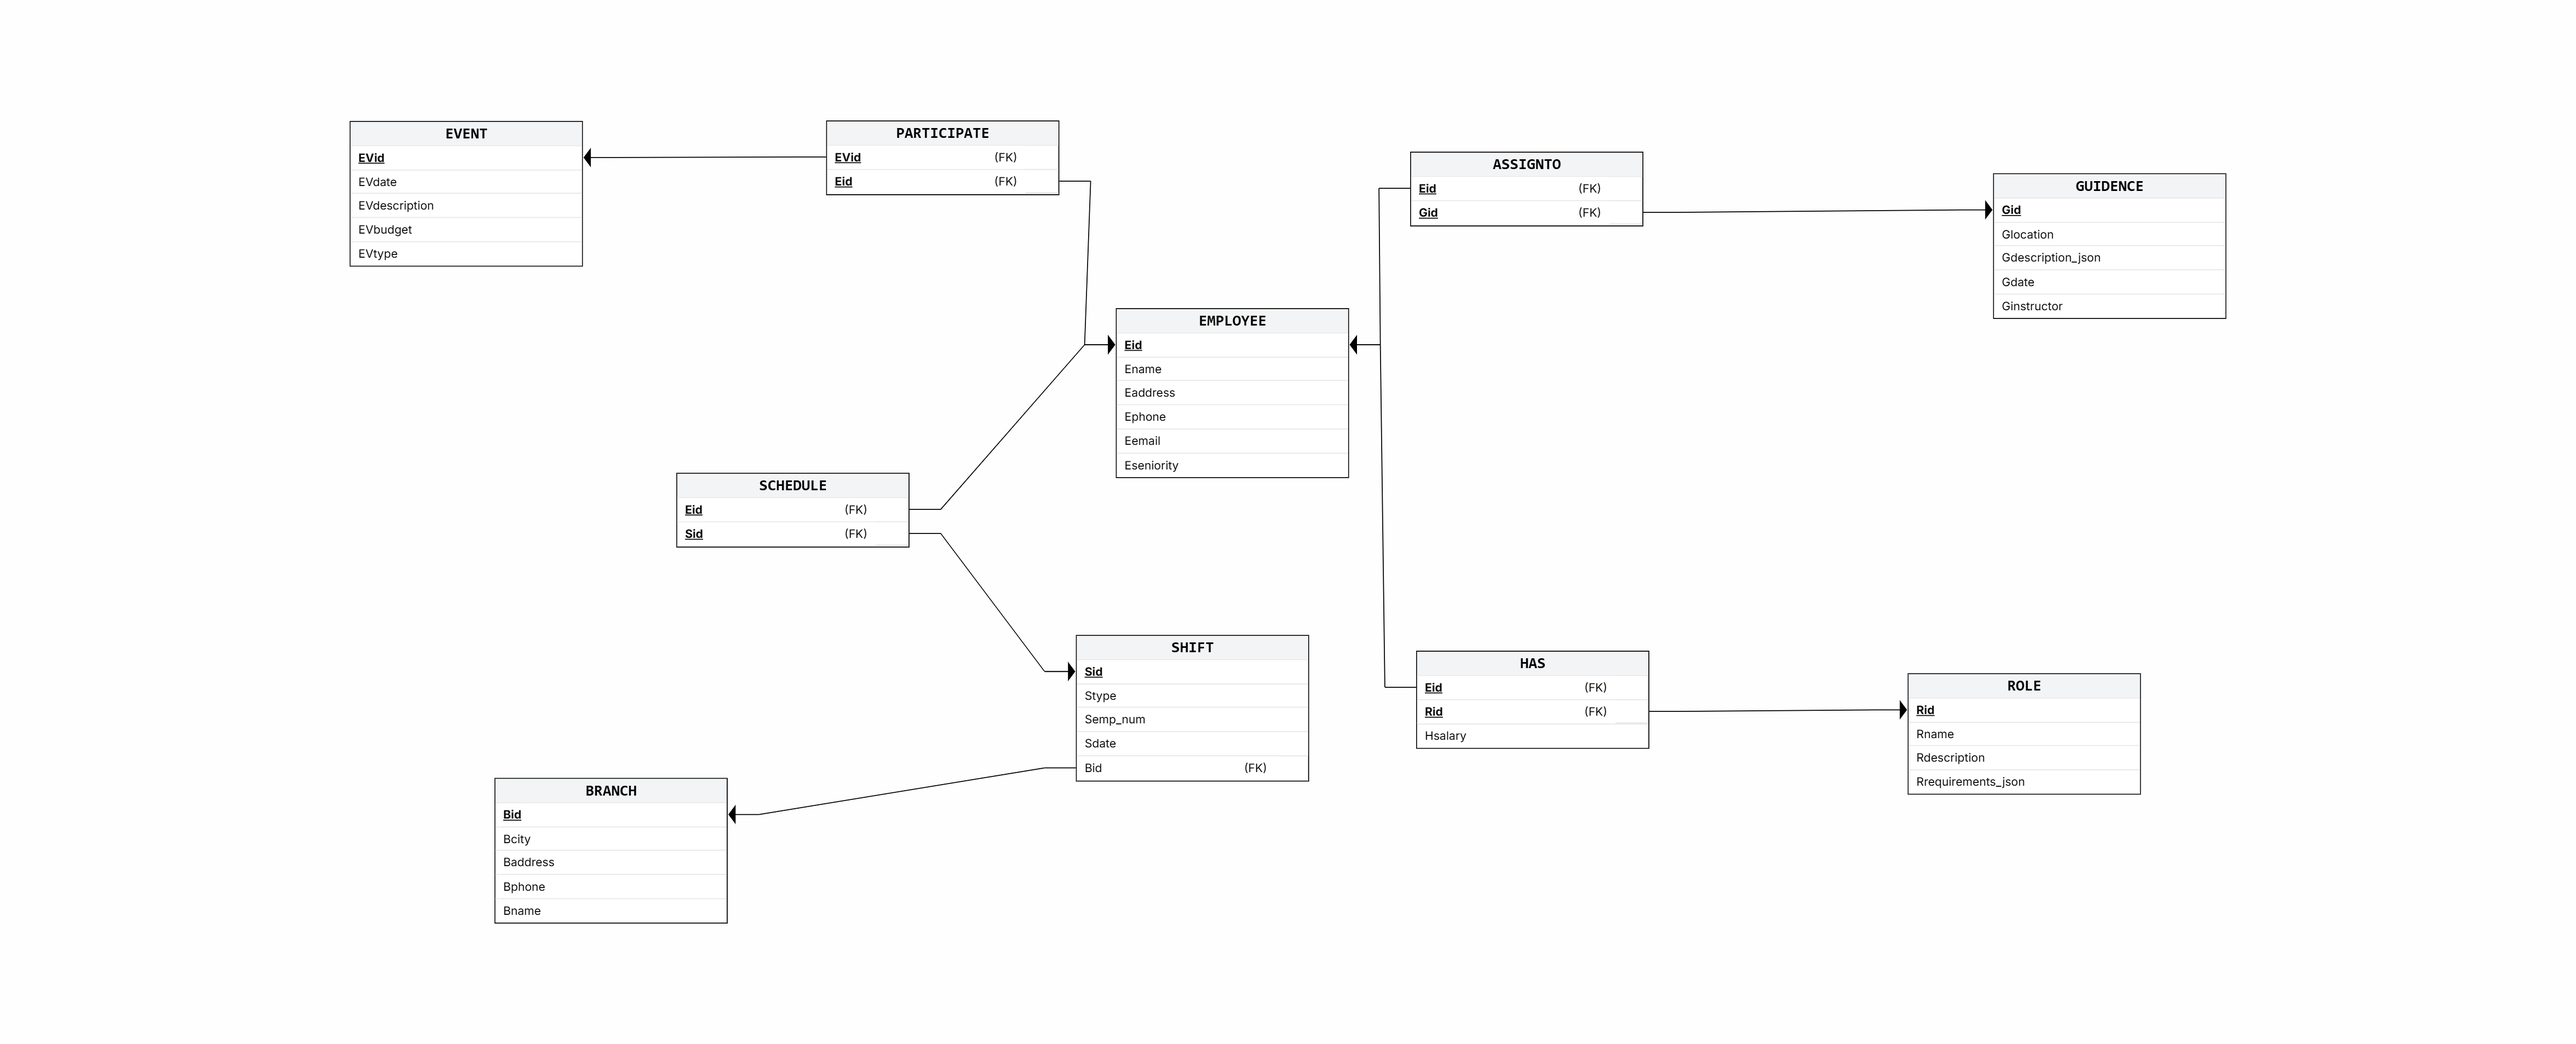
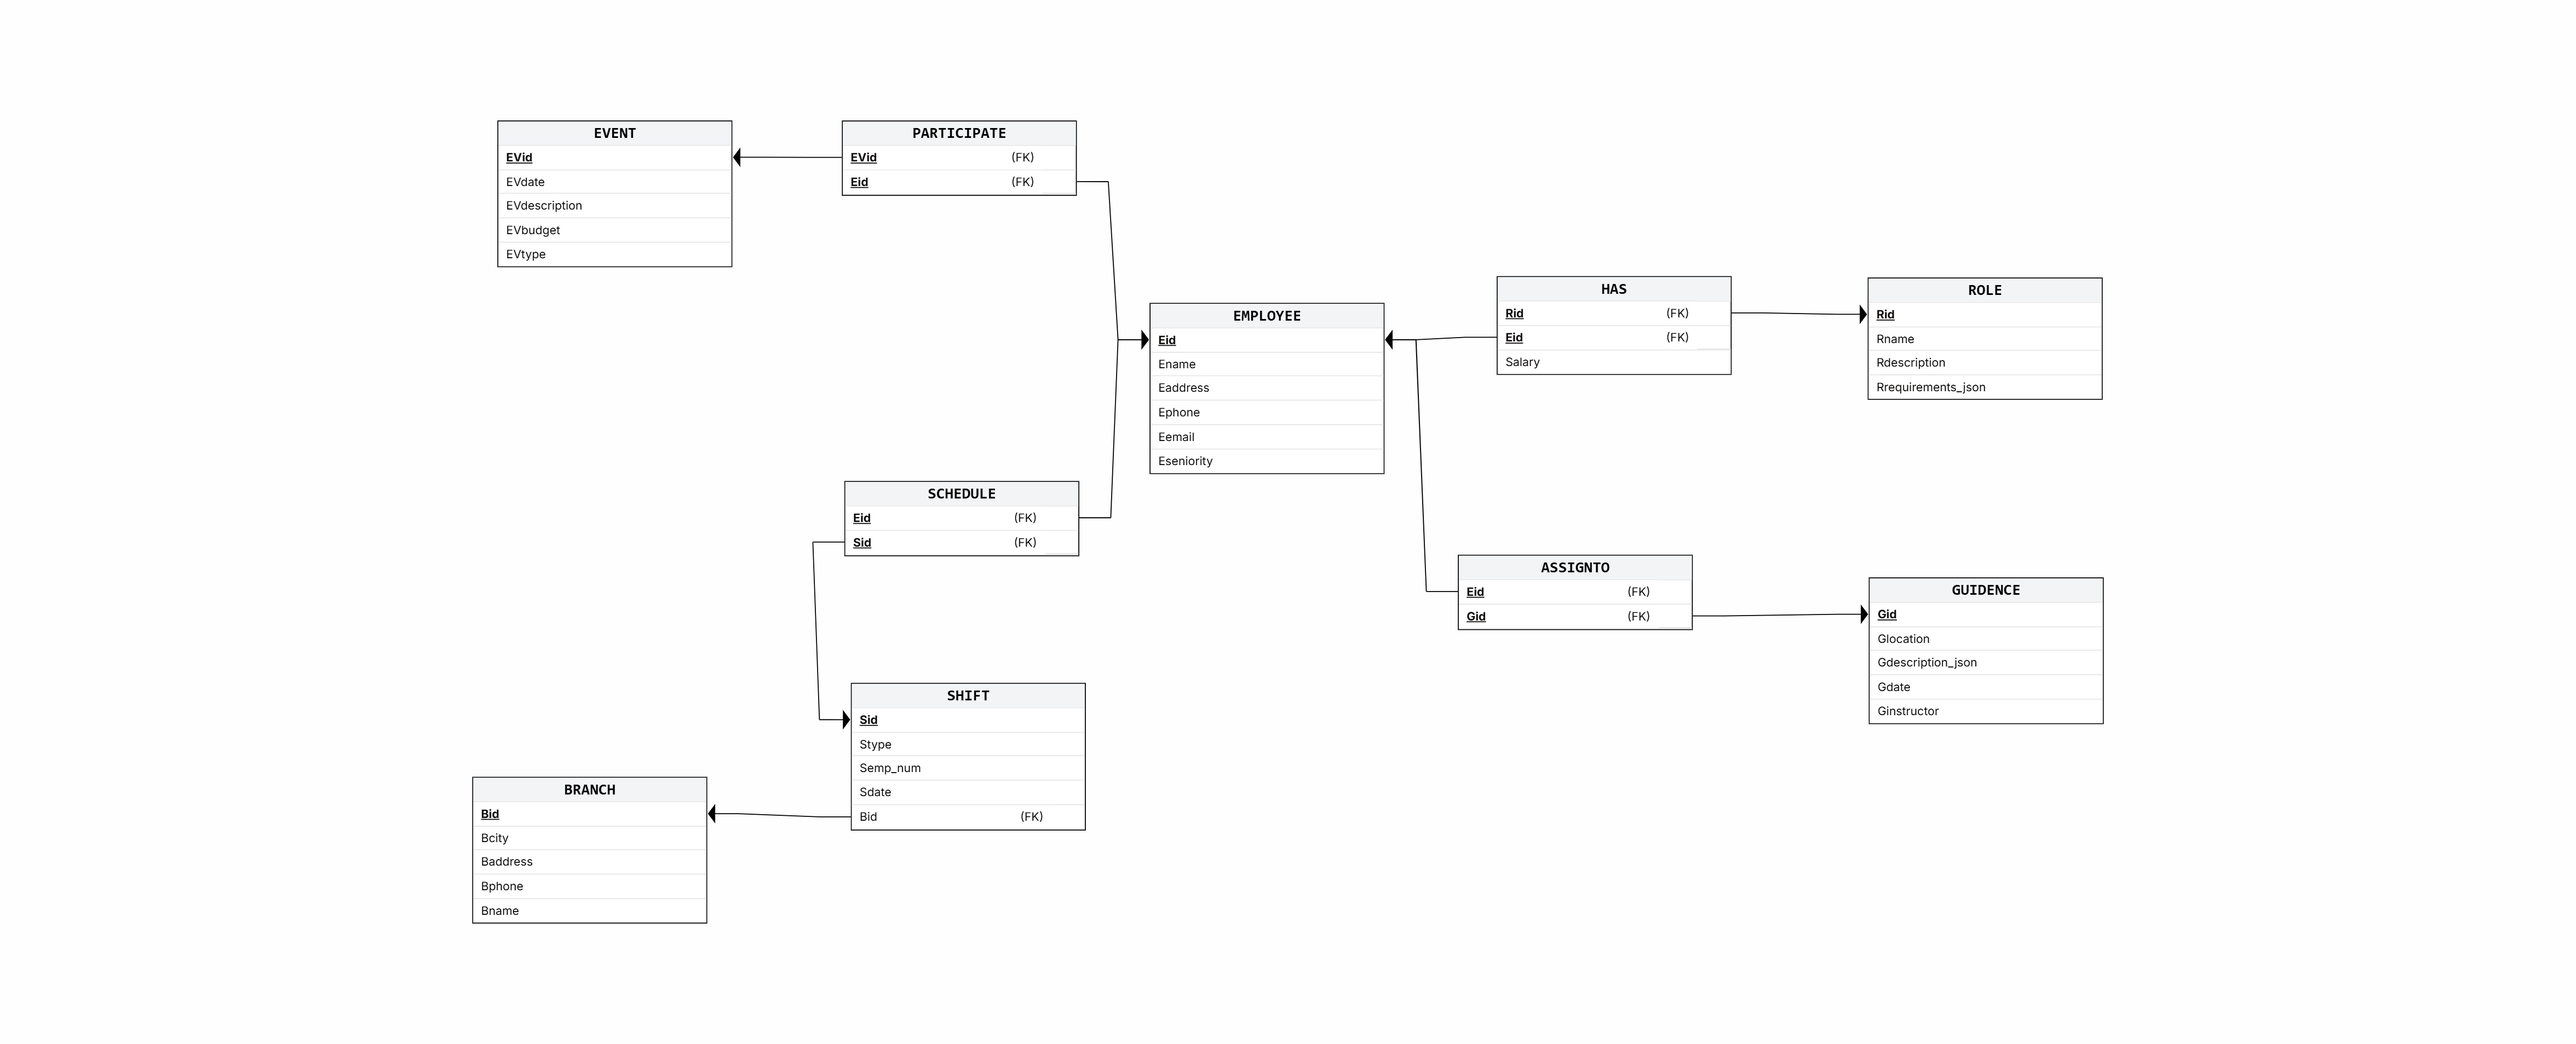
fix the image of DSD and add insertTable file

diff --git a/insertTables.py b/insertTables.py
@@ -1,0 +1,46 @@
+import json
+
+def generate_insert_script():
+    file_path = 'insertTable.sql'
+    
+    with open(file_path, 'w', encoding='utf-8') as f:
+        #insert to ROLE table
+        f.write("INSERT INTO ROLE (Rid, Rname, Rdescription, Rrequirements_json) VALUES\n")
+        f.write("(501, 'Morning Cleaner', 'Responsible for cleaning the store during morning hours', '{\"shift\": \"morning\", \"physical_effort\": \"medium\"}'),\n")
+        f.write("(502, 'Evening Cleaner', 'Responsible for cleaning the store during evening hours', '{\"shift\": \"evening\", \"physical_effort\": \"medium\"}'),\n")
+        f.write("(503, 'Cleaning Supervisor', 'Oversees all cleaning staff and supply inventory', '{\"leadership\": \"high\", \"experience\": \"2 years\"}');\n\n")
+        #insert to EMPLOYEE table
+        f.write("INSERT INTO EMPLOYEE (Eid, Ename, Eaddress, Ephone, Eemail, Eseniority) VALUES\n")
+        f.write("(20001, 'Sagi Cohen', 'Herzl 10, Tel Aviv', '050-1112233', 'sagi.c@shoe-store.com', 1),\n")
+        f.write("(20002, 'Yael Levi', 'Jaffa 45, Jerusalem', '052-4445566', 'yael.l@shoe-store.com', 2),\n")
+        f.write("(20003, 'Itai Mizrahi', 'HaAtzmaut 2, Haifa', '054-7778899', 'itai.m@shoe-store.com', 0);\n\n")
+        #insert to HAS table
+        f.write("INSERT INTO HAS (Eid, Rid, salary) VALUES\n")
+        f.write("(503, 20001, 12000), \n")
+        f.write("(501, 20001, 7000), \n")
+        f.write("(501, 20002, 6800), \n")
+        f.write("(502, 20002, 7200),\n")
+        f.write("(502, 20003, 6900); \n\n")
+
+      
+        g_desc1 = json.dumps({"target_role": "Morning Cleaner", "training_goal": "Chemical Safety"})
+        g_desc2 = json.dumps({"target_role": "Cleaning Supervisor", "training_goal": "Team Management"})
+        g_desc3 = json.dumps({"target_role": "Evening Cleaner", "training_goal": "Closing Procedures"})
+        #insert to GUIDENCE table
+        f.write(f"INSERT INTO GUIDENCE (Gid, Glocation, Gdescription_json, Gdate, Ginstructor) VALUES\n")
+        f.write(f"(501, 'Main Hub', '{g_desc1}', '2026-05-01', 'Avi Ron'),\n")
+        f.write(f"(502, 'Conference Room', '{g_desc2}', '2026-05-05', 'Dana Weiss'),\n")
+        f.write(f"(503, 'On-site', '{g_desc3}', '2026-05-10', 'Ronit Green');\n\n")
+
+        #insert to ASSIGNTO table
+        f.write("INSERT INTO ASSIGNTO (Eid, Gid) VALUES\n")
+        f.write("(20001, 502),\n")
+        f.write("(20001, 501),\n")
+        f.write("(20002, 501),\n")
+        f.write("(20002, 503),\n")
+        f.write("(20003, 503);\n")
+
+    print(f"הקובץ {file_path} נוצר בהצלחה.")
+
+if __name__ == "__main__":
+    generate_insert_script()
